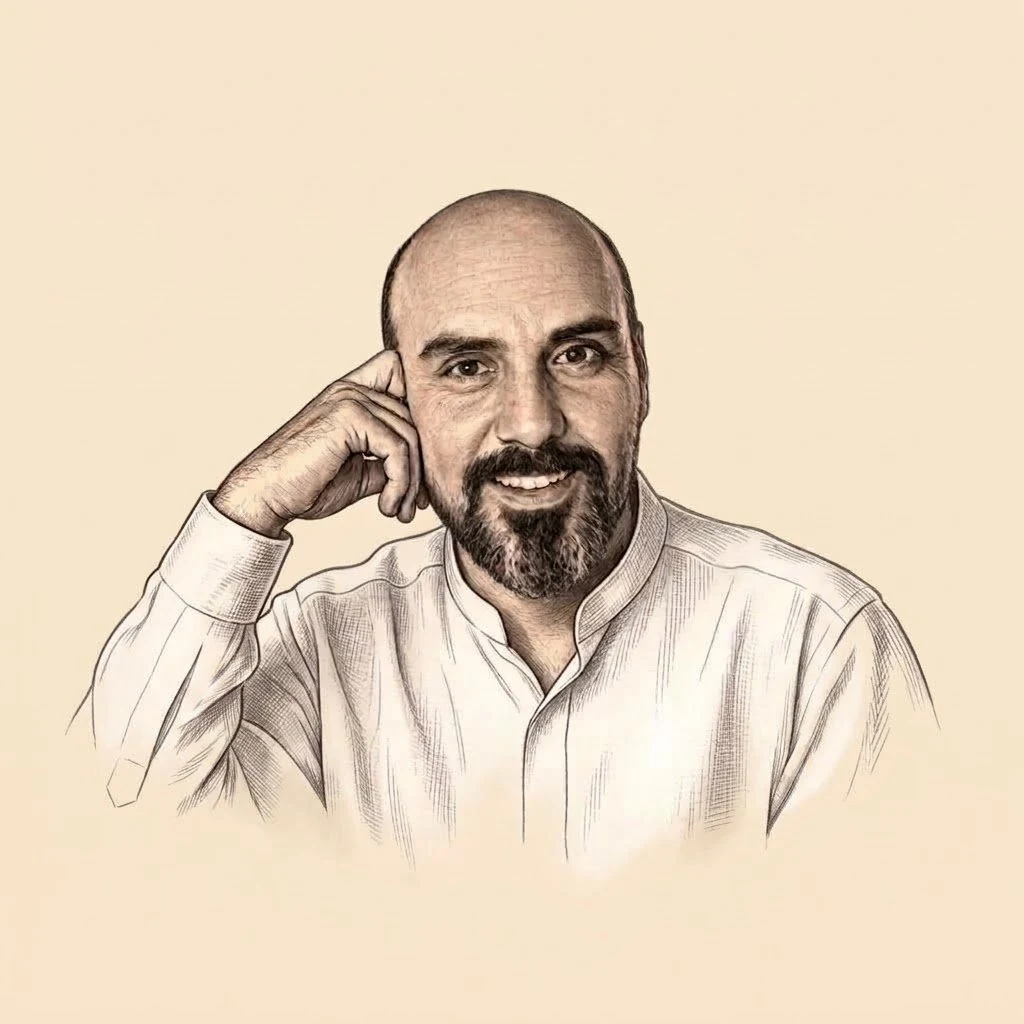
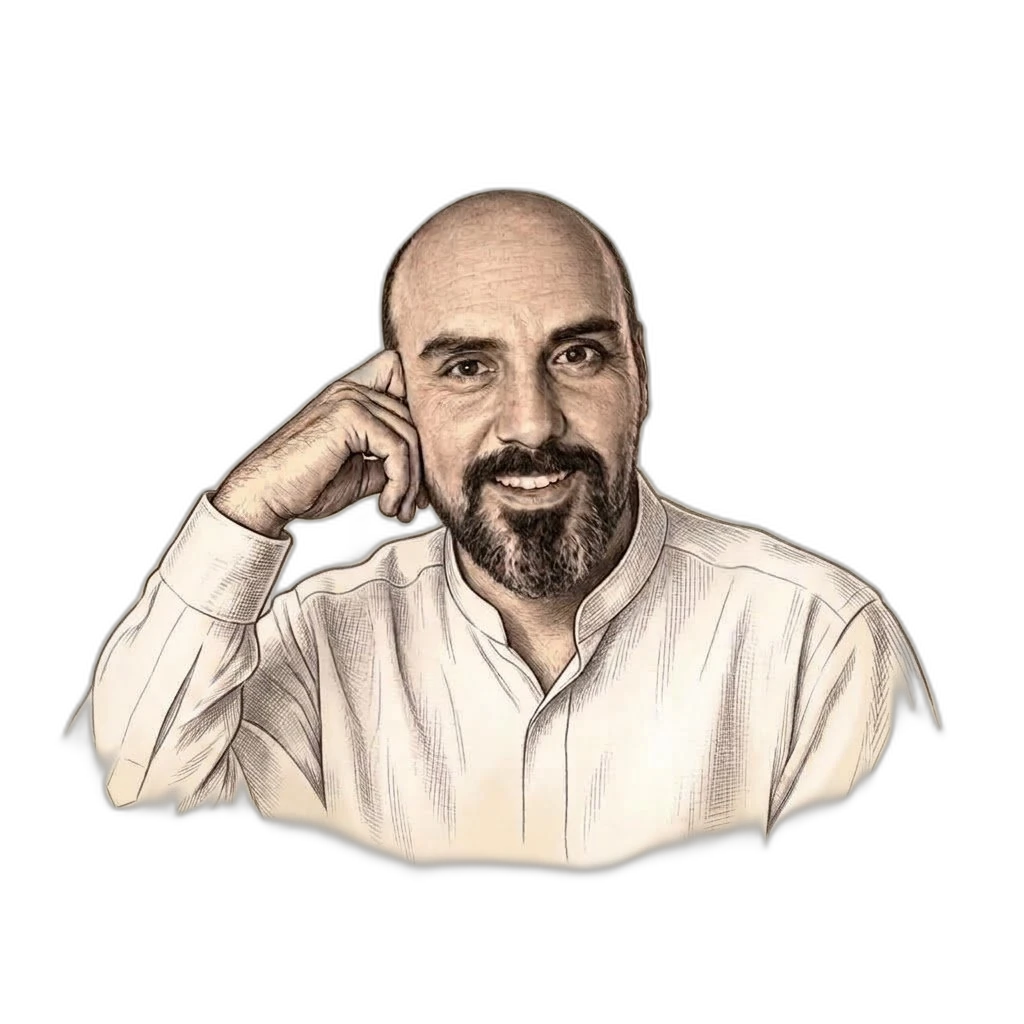
Foto sin fondo, cabecera inteligente y retoques de copy/espaciado
- Retrato recortado (rembg/u2net) flotando sobre el halo, sin círculo
- Cabecera fija con hide-on-scroll: se oculta al bajar, reaparece al subir
- Copy 'Soy Marco' sin repetir el nombre + h2 margin 0 0 18px

diff --git a/assets/css/style.css b/assets/css/style.css
@@ -68,6 +68,7 @@ html {
 
 body {
   margin: 0;
+  padding-top: 74px; /* Compensa la cabecera fija */
   font-family: var(--f-cuerpo);
   font-size: 18px;
   line-height: 1.55;
@@ -86,7 +87,8 @@ h1, h2, h3 {
   font-optical-sizing: auto;
 }
 h1 { font-size: clamp(2.125rem, 1.35rem + 3.4vw, 3.25rem); font-weight: 800; }
-h2 { font-size: clamp(1.75rem, 1.35rem + 1.9vw, 2.5rem); font-weight: 700; }
+h2 { font-size: clamp(1.75rem, 1.35rem + 1.9vw, 2.5rem); font-weight: 700; margin: 0 0 18px; }
+.eyebrow + h2 { margin-top: 0; }
 h3 { font-size: 1.25rem; font-weight: 700; }
 p { margin: 0 0 16px; max-width: 68ch; }
 a { color: var(--petroleo); }
@@ -161,12 +163,15 @@ img { max-width: 100%; height: auto; }
 
 /* ---------- Cabecera ---------- */
 .cabecera {
-  position: sticky; top: 0; z-index: 50;
+  position: fixed; top: 0; left: 0; right: 0; z-index: 50;
   background: rgba(254, 253, 251, .88);
   -webkit-backdrop-filter: blur(14px) saturate(1.2);
   backdrop-filter: blur(14px) saturate(1.2);
   border-bottom: 1px solid var(--borde);
+  transition: transform .32s ease;
 }
+/* Se oculta al bajar y reaparece al subir (lo controla el JS) */
+.cabecera--oculta { transform: translateY(-100%); }
 .cabecera__inner {
   display: flex; align-items: center; justify-content: space-between;
   gap: 16px; min-height: 74px;
@@ -252,11 +257,9 @@ img { max-width: 100%; height: auto; }
   border-radius: 46% 54% 52% 48% / 48% 46% 54% 52%;
 }
 .hero__foto {
-  width: 200px; height: 200px; object-fit: cover;
-  border-radius: 50%;
-  border: 1px solid var(--borde);
-  box-shadow: 0 0 0 8px rgba(14, 94, 122, .07), 0 24px 48px rgba(28, 43, 51, .14);
-  background: #f7e4ca;
+  width: 220px; height: 220px; object-fit: cover;
+  /* Sin máscara circular: el retrato recortado flota sobre el halo */
+  filter: drop-shadow(0 22px 30px rgba(28, 43, 51, .22));
   display: block;
 }
 .hero__sub { font-size: 18.5px; color: var(--pizarra); max-width: 44ch; }

diff --git a/index.html b/index.html
@@ -189,7 +189,7 @@
       <div>
         <span class="eyebrow">Quién está detrás</span>
         <h2 id="t-quien">Soy Marco López.</h2>
-        <p class="lead">Soy Marco López, diseñador web en Alhaurín el Grande. Hablas directamente conmigo: preparo tu web y aplico los cambios que acordemos.</p>
+        <p class="lead">Diseñador web en Alhaurín el Grande. Hablas directamente conmigo: preparo tu web y aplico los cambios que acordemos.</p>
         <p>Durante años hice webs para terapeutas y proyectos de crecimiento personal. Ahora llevo esa misma calidad a los negocios locales, a un precio que pueden pagar.</p>
       </div>
       <div class="trabajos">
@@ -327,6 +327,25 @@
       menuBtn.focus();
     }
   });
+
+  /* Cabecera inteligente: se oculta al bajar, reaparece al subir */
+  var cabecera = document.querySelector(".cabecera");
+  var ultimaY = window.scrollY || 0;
+  var procesando = false;
+  function actualizarCabecera() {
+    procesando = false;
+    var y = Math.max(0, window.scrollY || 0);
+    var menuAbierto = navMovil.classList.contains("abierto");
+    if (!menuAbierto && y > 160 && y > ultimaY + 4) {
+      cabecera.classList.add("cabecera--oculta");
+    } else if (y <= 160 || y < ultimaY - 4) {
+      cabecera.classList.remove("cabecera--oculta");
+    }
+    ultimaY = y;
+  }
+  window.addEventListener("scroll", function () {
+    if (!procesando) { procesando = true; window.requestAnimationFrame(actualizarCabecera); }
+  }, { passive: true });
 
   /* Conmutador Antes / Después: "Después" por defecto */
   var comparador = document.getElementById("comparador");
